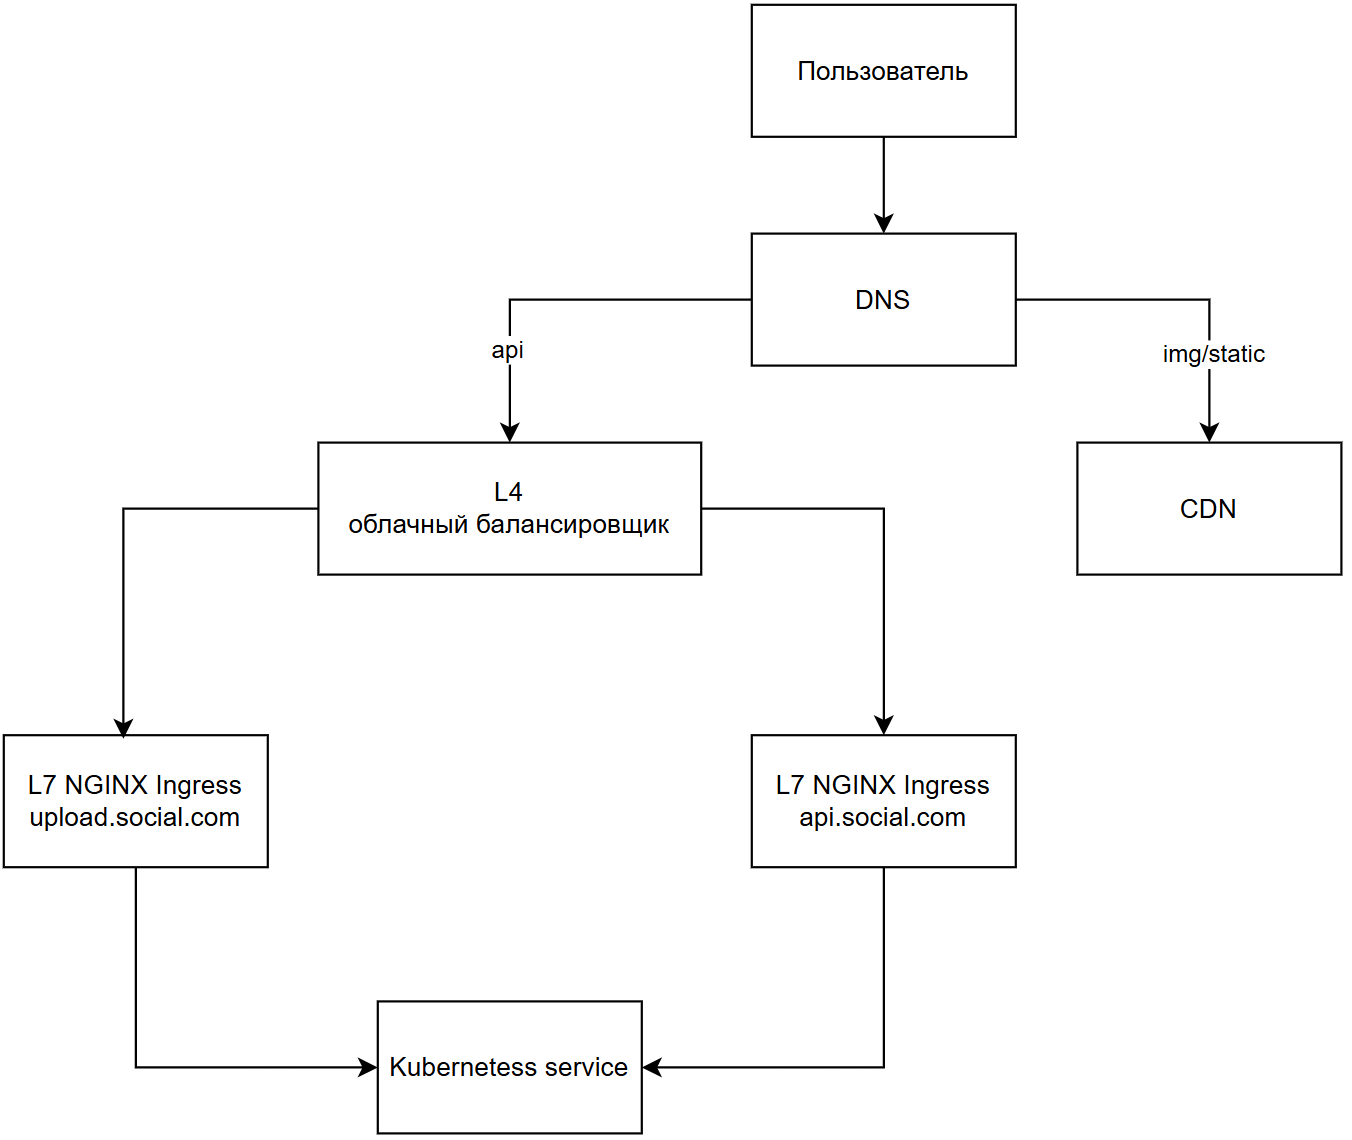
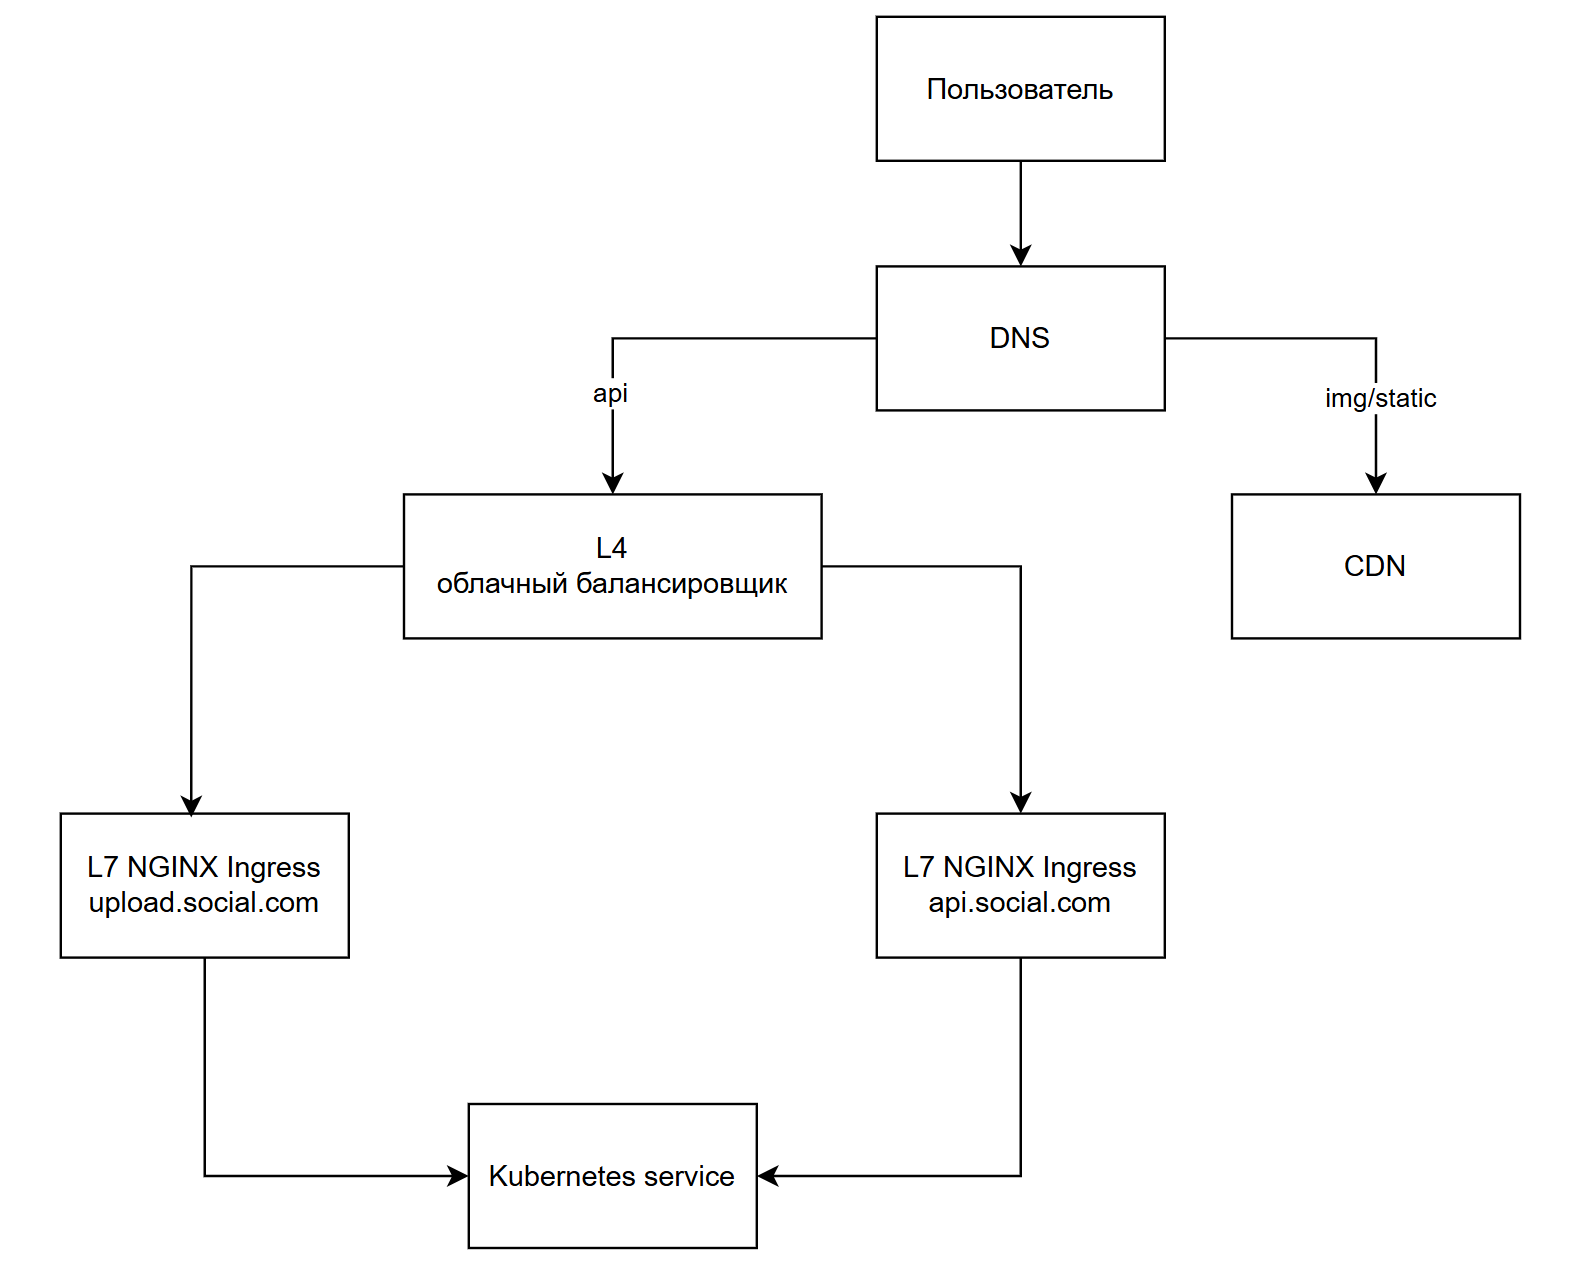
исправления 1.0

diff --git a/README.md b/README.md
@@ -438,8 +438,7 @@ $$
 | `story_views` | PostgreSQL | По story_id | 1 master + 2 replicas |  |
 | `story_counter` | Redis | По story_id | 3 master + 3 replica | Аналогично `user_counters` |
 | `feed_cache` | Redis | Hash-slot по `user_id` | 3 master + 3 replicas |  |
-| `interactions_buffer` | Kafka | Ключ партиционирования post_id | 3 брокера × replication factor 3 |  |
-| `user_interactions_log` | ClickHouse | Партиции по месяцам; шардирование на 8+ шардов | 3 реплики на каждый шард; ежедневный backup в S3 |  |
+| `user_interactions` | Kafka | Ключ партиционирования post_id | 3 брокера × replication factor 3 |  |
 
 ## 6.2. Индексы
 
@@ -816,30 +815,11 @@ $$
     <td>1 лайк от одного пользователя для одного поста</td>
   </tr>
   <tr>
-    <td rowspan="1"><strong>interactions_buffer</strong></td>
+    <td rowspan="1"><strong>user_interactions</strong></td>
     <td><code>topic: interactions</code></td>
     <td>Kafka Topic</td>
     <td></td>
     <td>Ключ партиционирования: post_id. RF=3</td>
-  </tr>
-  <tr>
-    <td rowspan="3"><strong>user_interactions_log</strong></td>
-    <td><code>PRIMARY KEY (user_id, created_at)</code></td>
-    <td>ClickHouse MergeTree</td>
-    <td></td>
-    <td>Сортировка по user_id + дата для аналитики</td>
-  </tr>
-  <tr>
-    <td><code>PARTITION BY toYYYYMM(created_at)</code></td>
-    <td>ClickHouse Partition</td>
-    <td></td>
-    <td>Партиции по месяцам - быстрый DROP старых данных</td>
-  </tr>
-  <tr>
-    <td><code>idx_interactions_post</code></td>
-    <td>ClickHouse Skipping Index</td>
-    <td></td>
-    <td>post_id - аналитика по конкретному посту</td>
   </tr>
 </table>
 
@@ -849,8 +829,7 @@ $$
 | :--- | :--- |
 | **PostgreSQL (Citus)** | Полный бэкап раз в неделю + инкрементальный ежедневно. Хранение: 4 полных бэкапа |
 | **Redis Cluster** | RDB-снапшоты каждые 6 часов в S3 + AOF лог. При полной потере данные восстанавливаются из PostgreSQL. |
-| **ClickHouse** | Полный бэкап раз в неделю + инкрементальный ежедневно в S3. Данные также можно восстановить повторным чтением из Kafka |
-| **Kafka** | Встроенная репликация: 3 копии каждой партиции. Отдельный бэкап не нужен, данные временные. |
+| **Kafka** | Встроенная репликация: 3 копии каждой партиции. Полный бэкап раз в неделю + инкрементальный ежедневно в S3 |
 
 # 7. Алгоритмы
 
@@ -1013,7 +992,6 @@ $$
 | :--- | :--- | :--- |
 | PostgreSQL | Реляционная база данных | Open-source, большое количество расширений |
 | Redis Cluster | Key-value хранилище и кэш | Open-source, способен обрабатывать огромный RPS для разгрузки PostgreSQL |
-| Clickhouse | Колоночная СУБД | Инструмент для аналитики |
 | Apache Kafka | Потоковая шина данных | Open-source, высокая пропускная способность, индустриальный стандарт |
 | RustFS | S3-хранилище | Open-Source, self-hosted |
 | Go | Backend | Высокая производительность, высокая скорость разработки |
@@ -1034,8 +1012,7 @@ $$
 | RustFS | Erasure Coding (10 data shards + 4 parity shards) [[22]](https://docs.rustfs.com/concepts/principle/erasure-coding.html) | При отказе одного диска/ноды файл по-прежнему доступен |
 | PostgreSQL | 1 master + 2 replicas | При отказе master переход на replica |
 | Redis | 3 master + 3 replicas | При отказе master переход на replica |
-| ClickHouse | 8 шардов по 3 реплики | При отказе одной реплики - переход на другую, при отказе всех реплик - недоступность части данных |
-| Kafka | replication factor 3 | При полном отказе перестают записываться логи пользователей |
+| Kafka | replication factor 3 | При полном отказе перестают записываться логи пользователей, лента рекомендаций без учета новых постов и подписок |
 | CDN | На стороне провайдера | При недоступности - раздача напрямую из S3 |
 
 # 10. Схема проекта
